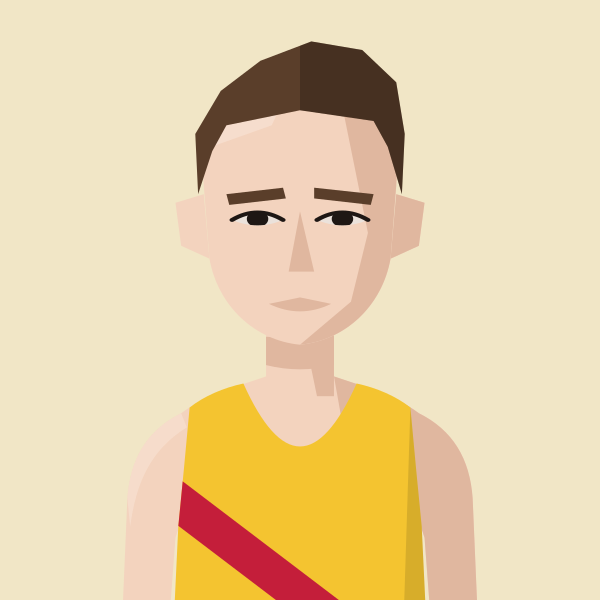
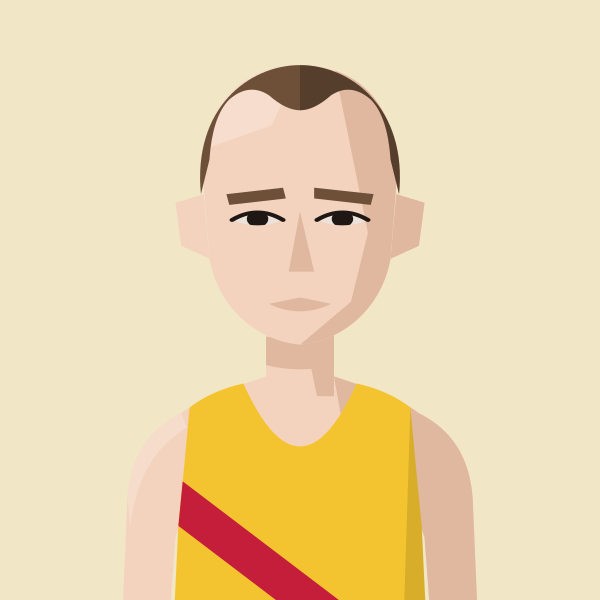
Toby Cooke: receding crop, lighter brown
Claude-Session: https://claude.ai/code/session_01MgmDWhFqnSSnP4iBLKXUZC

Changed region(s): [[0.3, 0.06, 0.69, 0.33]]

diff --git a/files/index.html b/files/index.html
@@ -594,7 +594,7 @@ return m;})();
 const portraitFile=(name,club)=>{const k=normalizeNameForCompare(name||'').replace(/\s*\(([^)]*)\)$/,(m,c)=>CLUBS[c.toUpperCase()]?'':m);const a=PORTRAITS[k];if(a&&a.club===club)return a.file;const b=PORTRAITS[k+'@'+club];return b?b.file:null;};
 // Athlete header figure: superstar portrait if we have one, else a grey runner in the club vest, else the plain vest icon
 // Changes whenever any portrait changes (set by tools/build_og.py), so browsers fetch fresh images instead of old cached ones
-const PORTRAIT_V='b151bde7';
+const PORTRAIT_V='b87ac3f2';
 const AthletePortrait=({name,club,w,fill,onClick})=>{const[failed,setFailed]=useState(false);const file=portraitFile(name,club);const src=file?`/portraits/athletes/${file}.svg?v=${PORTRAIT_V}`:PORTRAIT_CLUBS.has(club)?`/portraits/clubs/${club.replace(/\//g,'').replace(/&/g,'and')}.svg?v=${PORTRAIT_V}`:null;if(!src||failed)return<div onClick={onClick} className={onClick?'cursor-pointer':''}><ClubShield club={club} size={w}/></div>;const h=Math.round(w*148/126),ih=Math.round(w*1.4);if(fill)return<div onClick={onClick} className="cursor-pointer" style={{alignSelf:'stretch',minHeight:h,aspectRatio:'126 / 148',flexShrink:0,position:'relative',borderRadius:4,overflow:'hidden'}}><img src={src} alt={file?`Portrait of ${name.replace(/\s*\([^)]*\)$/,'')}`:`Runner in ${CLUBS[club]?.name||club} vest`} style={{position:'absolute',top:0,left:0,display:'block',width:'100%',height:'auto'}} onError={()=>setFailed(true)}/></div>;return<div style={{width:w,height:h,borderRadius:4,overflow:'hidden',flexShrink:0}}><img src={src} alt={file?`Portrait of ${name.replace(/\s*\([^)]*\)$/,'')}`:`Runner in ${CLUBS[club]?.name||club} vest`} width={w} height={ih} style={{display:'block',width:w,height:ih}} onError={()=>setFailed(true)}/></div>;};
 const getClubVestSvg=(club)=>{
   const p="M3 0 L6 0 Q7 4 10 5 Q13 4 14 0 L17 0 L17 20 L3 20 Z";

diff --git a/tools/gen_portraits.py b/tools/gen_portraits.py
@@ -670,7 +670,7 @@ W433 += [
  ("robert-laing","KEN","Robert Laing",dict(skin=1,hair="crop",hair_colour="#2E211B",facial="stubble"),"short dark hair, stubble"),
 ]
 W433 += [
- ("toby-cooke","H/W","Toby Cooke",dict(skin=1,hair="quiff",hair_colour="#5A3E2A"),"short brown hair"),
+ ("toby-cooke","H/W","Toby Cooke",dict(skin=1,hair="croprecede",hair_colour="#6E5038"),"short receding brown hair"),
  ("harrison-hayman","SLH","Harrison Hayman",dict(skin=1,hair="tousled",hair_colour="#B8703E"),"tousled ginger hair"),
  ("edward-chuck","DUL","Edward Chuck",dict(skin=1,hair="crop",hair_colour="#2E211B",facial="stubble"),"short dark hair, stubble"),
 ]
